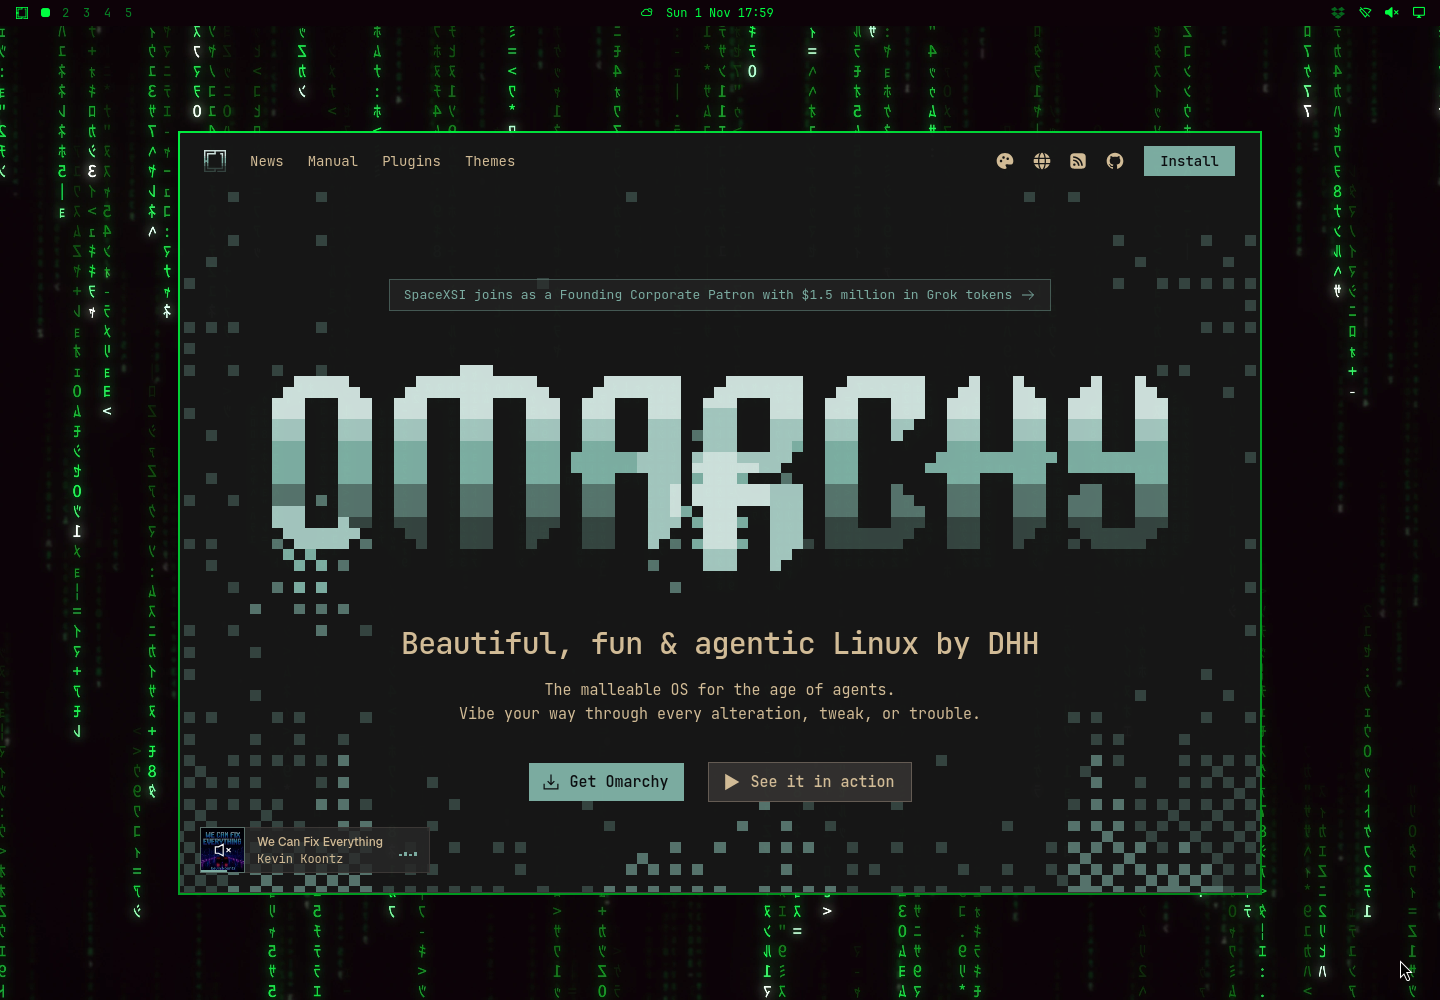
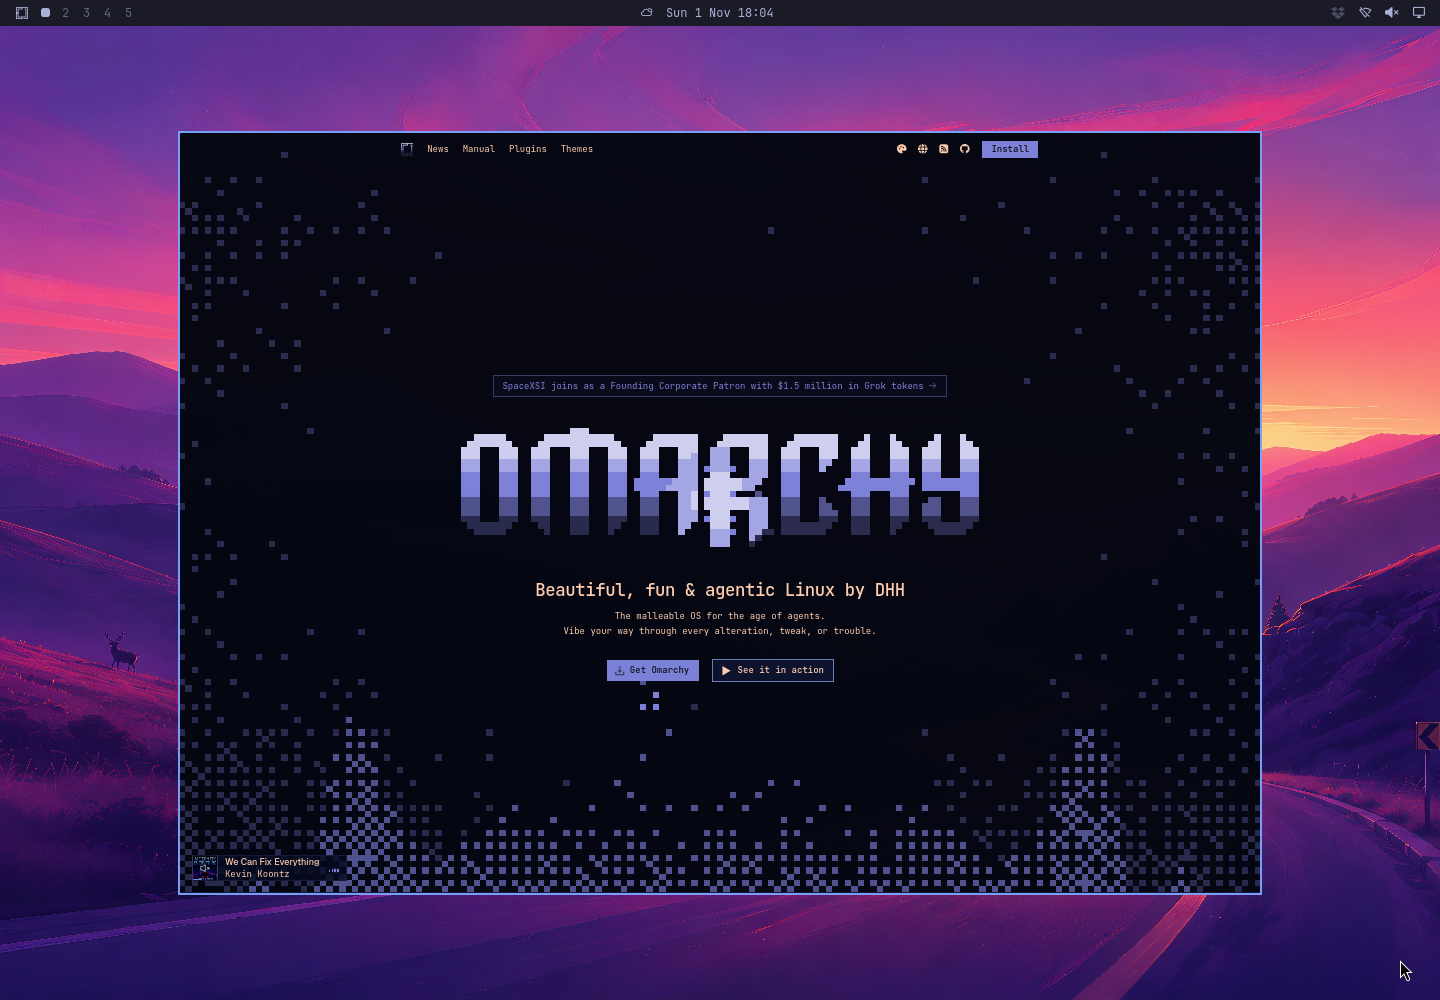
Use Tokyo Night for the desktop screenshot

diff --git a/README.md b/README.md
@@ -2,7 +2,7 @@
 
 A minimal keyboard-first browser for Omarchy.
 
-![Omawser on the Omarchy desktop](docs/screenshot.png)
+![Omawser on the Omarchy desktop with the Tokyo Night theme](docs/screenshot.png)
 
 ## Install
 
